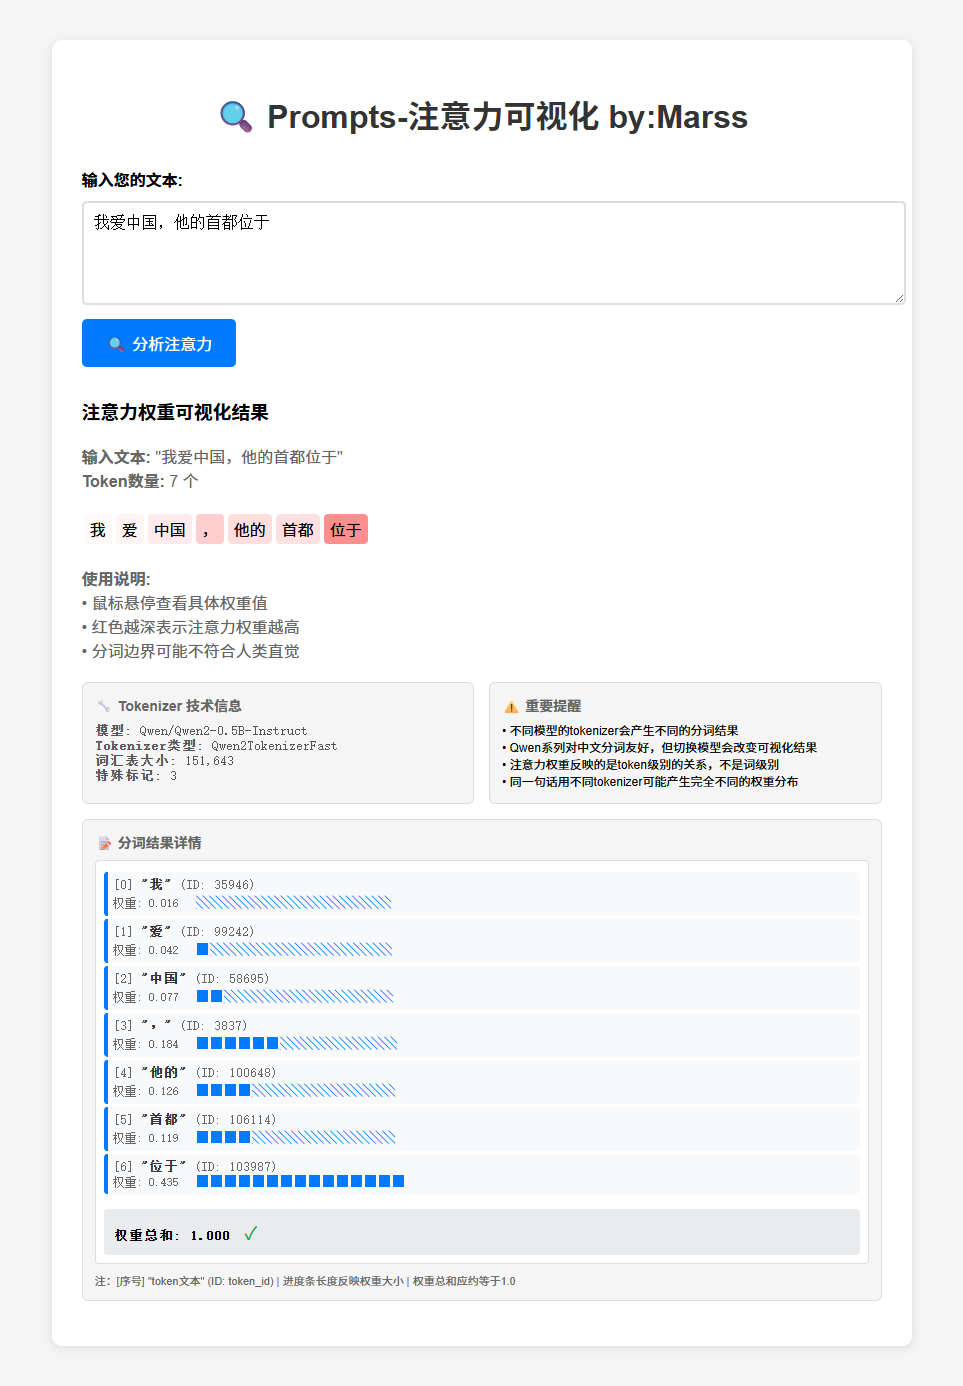
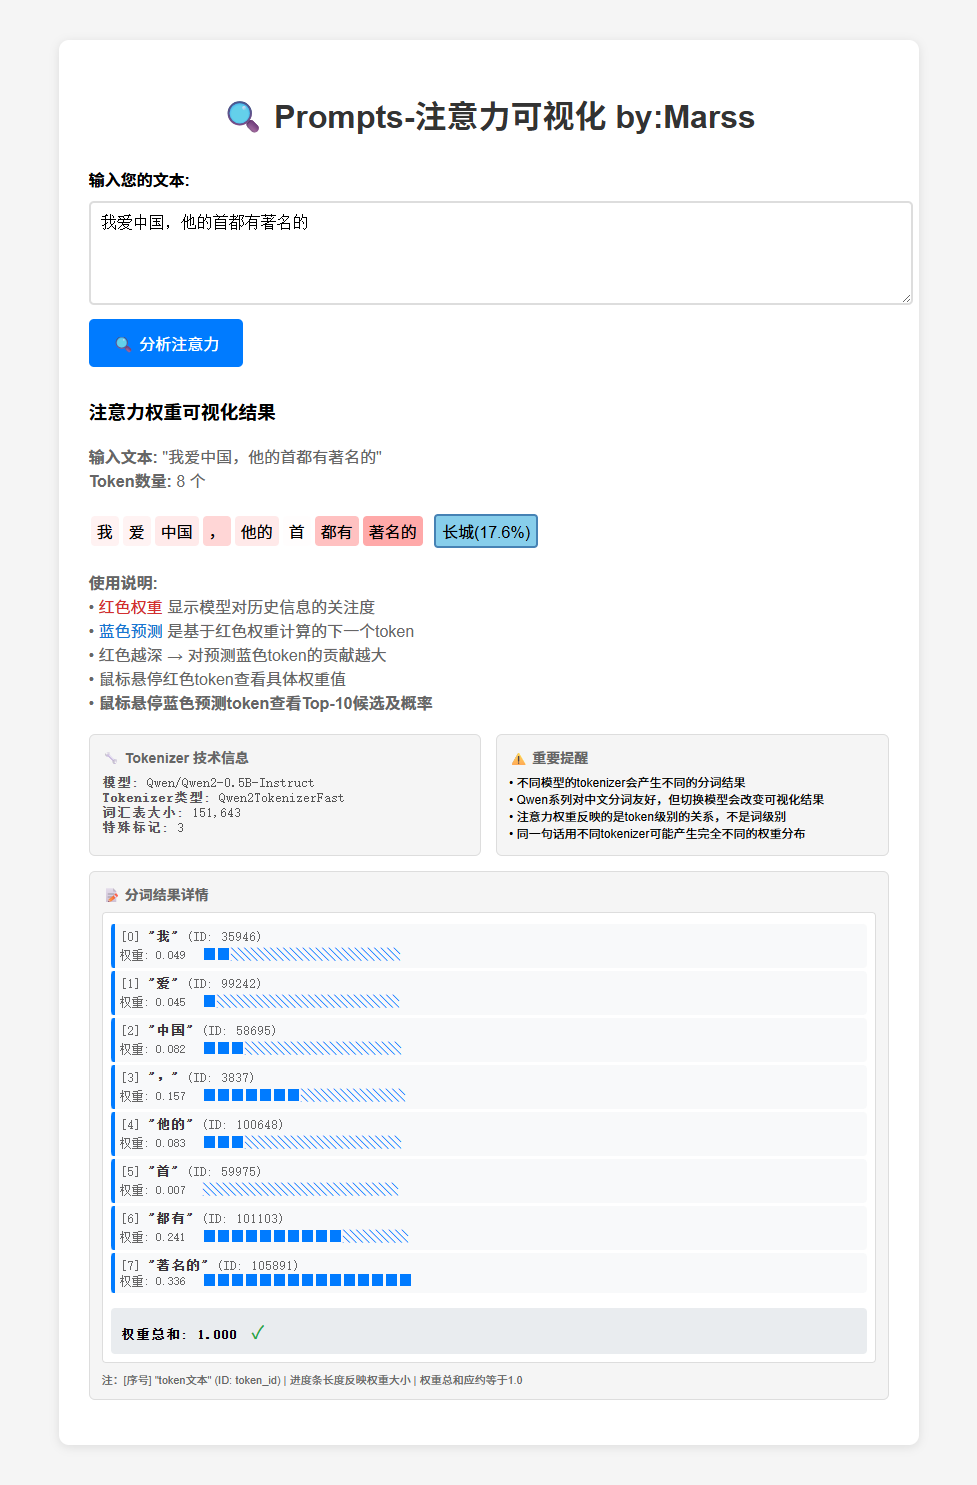
feat: 添加注意力预测链功能并更新文档
- 新增下一token预测及Top-K候选展示功能
- 实现注意力权重到预测token的因果关系可视化
- 全面更新README文档以反映新功能
- 改进交互体验，增加智能悬停提示

diff --git a/README.md b/README.md
@@ -1,7 +1,8 @@
 # 🔍 Attention Visualizer - 注意力可视化工具
 
-> **交互式Transformer注意力权重可视化工具**
-> 通过Web界面实时分析模型的注意力分布，理解AI如何"关注"输入文本的不同部分
+> **交互式Transformer注意力权重可视化 + 预测分析工具**
+>
+> 通过Web界面实时分析模型的注意力分布和下一token预测，理解AI如何"关注"输入文本并做出预测决策
 
 ## 📸 效果展示
 
@@ -11,11 +12,20 @@
 
 ## ✨ 功能特性
 
-- 🎯 **实时可视化** - 输入文本，立即看到注意力权重分布
-- 🌐 **Web交互界面** - 现代化的浏览器界面，支持快捷键和实时分析
-- 📊 **科学准确** - 基于Transformer最后一层的真实注意力权重
-- 🔧 **技术细节** - 显示tokenizer信息、权重统计和分词结果
-- 🎨 **直观呈现** - 红色深浅表示注意力强度，支持悬停查看具体数值
+### 🎯 核心功能
+- **实时注意力可视化** - 输入文本，立即看到注意力权重分布
+- **下一token预测** - 显示模型预测的下一个token及概率
+- **Top-K候选展示** - 悬停预测token查看前10个候选及概率
+
+### 🌐 交互体验
+- **现代化Web界面** - 支持快捷键和实时分析
+- **因果关系展示** - 红色注意力权重 → 蓝色预测token的视觉流向
+- **智能悬停提示** - 鼠标悬停查看详细信息
+
+### 📊 技术深度
+- **科学准确** - 基于Transformer最后一层的真实注意力权重
+- **完整技术信息** - tokenizer详情、权重统计、分词结果
+- **概率分布保真** - 保持原始softmax概率，不做归一化失真
 
 ## 🚀 快速开始
 
@@ -43,38 +53,53 @@ python app.py
 
 1. **启动服务** - 运行 `python app.py`
 2. **输入文本** - 在网页中输入要分析的中文文本
-3. **查看结果** - 观察每个token的注意力权重和可视化效果
-4. **技术分析** - 查看tokenizer信息和详细的权重统计
+3. **观察注意力** - 红色深浅表示模型对各token的关注度
+4. **查看预测** - 蓝色token显示模型预测的下一个token及概率
+5. **探索候选** - 鼠标悬停蓝色预测token查看Top-10候选列表
+6. **技术分析** - 查看tokenizer信息和详细的权重统计
+
+### 💡 交互技巧
+- 鼠标悬停红色token → 查看精确注意力权重
+- 鼠标悬停蓝色预测token → 查看Top-10候选及概率
+- 使用Ctrl+Enter快捷键提交分析
 
 
 ## 🔬 技术原理
 
-### 注意力权重提取
-本工具采用**因果注意力**的正确计算方法：
+### 注意力-预测链分析
+本工具实现了完整的**注意力→预测**因果链分析：
 
 ```python
-# 获取最后一层的注意力矩阵
+# 1. 注意力权重提取（因果注意力的正确方法）
 attention = outputs.attentions[-1]  # [batch, heads, seq_len, seq_len]
-
-# 平均所有注意力头
 averaged = attention.mean(dim=1)    # [batch, seq_len, seq_len]
-
-# 提取最后一个token对所有位置的注意力分布
 last_token_attention = averaged[0, -1, :]  # [seq_len]
+
+# 2. 下一token预测（从同一次前向传播获取）
+logits = outputs.logits[0, -1, :]  # 最后位置的预测分数
+probs = torch.softmax(logits, dim=-1)  # 转换为概率分布
+
+# 3. Top-K候选提取
+top_probs, top_token_ids = torch.topk(probs, 10)
 ```
+
+### 因果关系可视化
+- **红色权重** - 模型基于注意力机制对历史信息的关注分布
+- **蓝色预测** - 基于红色注意力权重计算出的下一token预测
+- **视觉流向** - 清晰展示"注意力如何影响预测"的因果关系
 
 ## 📁 项目结构
 
 ```
-├── app.py                        # Web交互式界面（主要功能）
-├── specs/attention-visualizer/   # 项目规范文档
-│   ├── requirements.md           # 需求规格说明
-│   ├── design.md                 # 技术设计文档
-│   ├── tasks.md                  # 开发任务记录
-│   └── verify.md                 # 验证和测试文档
-├── CLAUDE.md                     # Claude Code配置文件
-├── pyproject.toml               # Python项目配置（本项目通过uv sync管理依赖）
-└── README.md                    # 项目文档（本文件）
+├── app.py                                # Web交互式界面（主要功能）
+├── specs/
+│   ├── attention-visualizer/             # 注意力可视化规范文档
+│   └── attention-prediction-chain/       # 注意力预测链规范文档
+│       ├── task-list.md                 # 功能开发任务清单
+│       └── requirements.md              # 需求规格说明
+├── CLAUDE.md                            # Claude Code配置文件
+├── pyproject.toml                       # Python项目配置（uv管理依赖）
+└── README.md                           # 项目文档（本文件）
 ```
 
 ## 🎯 支持的模型
@@ -92,14 +117,22 @@ model_name = "你的模型名称"
 
 ## 🔧 高级功能
 
-### 技术信息显示
+### 注意力分析
+- **权重可视化** - 红色深浅表示注意力强度
+- **技术信息** - 模型信息、词汇表大小、tokenizer类型
+- **分词详情** - 完整的token分解过程和ID映射
+- **权重统计** - 注意力权重分布验证
 
-- **模型信息** - 显示使用的模型和tokenizer类型
-- **词汇表大小** - 模型的词汇表统计
-- **分词详情** - 完整的token分解过程
-- **权重统计** - 注意力权重分布
-- **颜色映射** - 红色深浅表示注意力强度
-- **悬停提示** - 鼠标悬停查看精确权重值
+### 预测分析
+- **下一token预测** - 显示最可能的下一个token及概率
+- **Top-K候选** - 悬停显示前10个候选token及概率排序
+- **概率分布** - 保持原始softmax概率的真实性
+- **因果关系** - 视觉化展示注意力如何影响预测
+
+### 交互体验
+- **智能悬停** - 鼠标悬停查看详细信息
+- **实时分析** - 即时计算和显示结果
+- **快捷操作** - 支持Ctrl+Enter提交分析
 
 ## ⚠ 重要提醒
 
@@ -110,14 +143,23 @@ model_name = "你的模型名称"
 
 ## 🛠 开发历史
 
-### 已完成的关键修复
+### V2.0 - 注意力预测链功能 ✅
+- ✅ **下一token预测** - 显示模型预测的下一个token及概率
+- ✅ **Top-K候选显示** - 悬停查看前10个候选token及概率
+- ✅ **因果关系可视化** - 红色注意力权重→蓝色预测token的视觉流向
+- ✅ **交互体验增强** - 智能tooltip和悬停提示
+- ✅ **技术架构升级** - 使用AutoModelForCausalLM同时获取注意力和预测
+
+### V1.0 - 基础注意力可视化 ✅
 - ✅ **注意力计算逻辑修正** - 从错误的 `sum(dim=-2)` 改为正确的最后token注意力
 - ✅ **权重归一化优化** - 移除不当的min-max归一化，保持概率分布性质
 - ✅ **Web交互界面** - 实现现代化的实时可视化Web应用
-- ✅ **中文支持优化** - 正确处理中文token的显示和编码（中文有时会出现乱码，是因为一个完整的汉字被拆成了不同的token，单个token会显示为乱码）
+- ✅ **中文支持优化** - 正确处理中文token的显示和编码
 
 ### 技术债务和改进空间
 - [ ] 支持更多模型架构
+- [ ] 特殊token显示优化
+- [ ] 错误处理增强
 
 ## 🔮 未来功能
 
